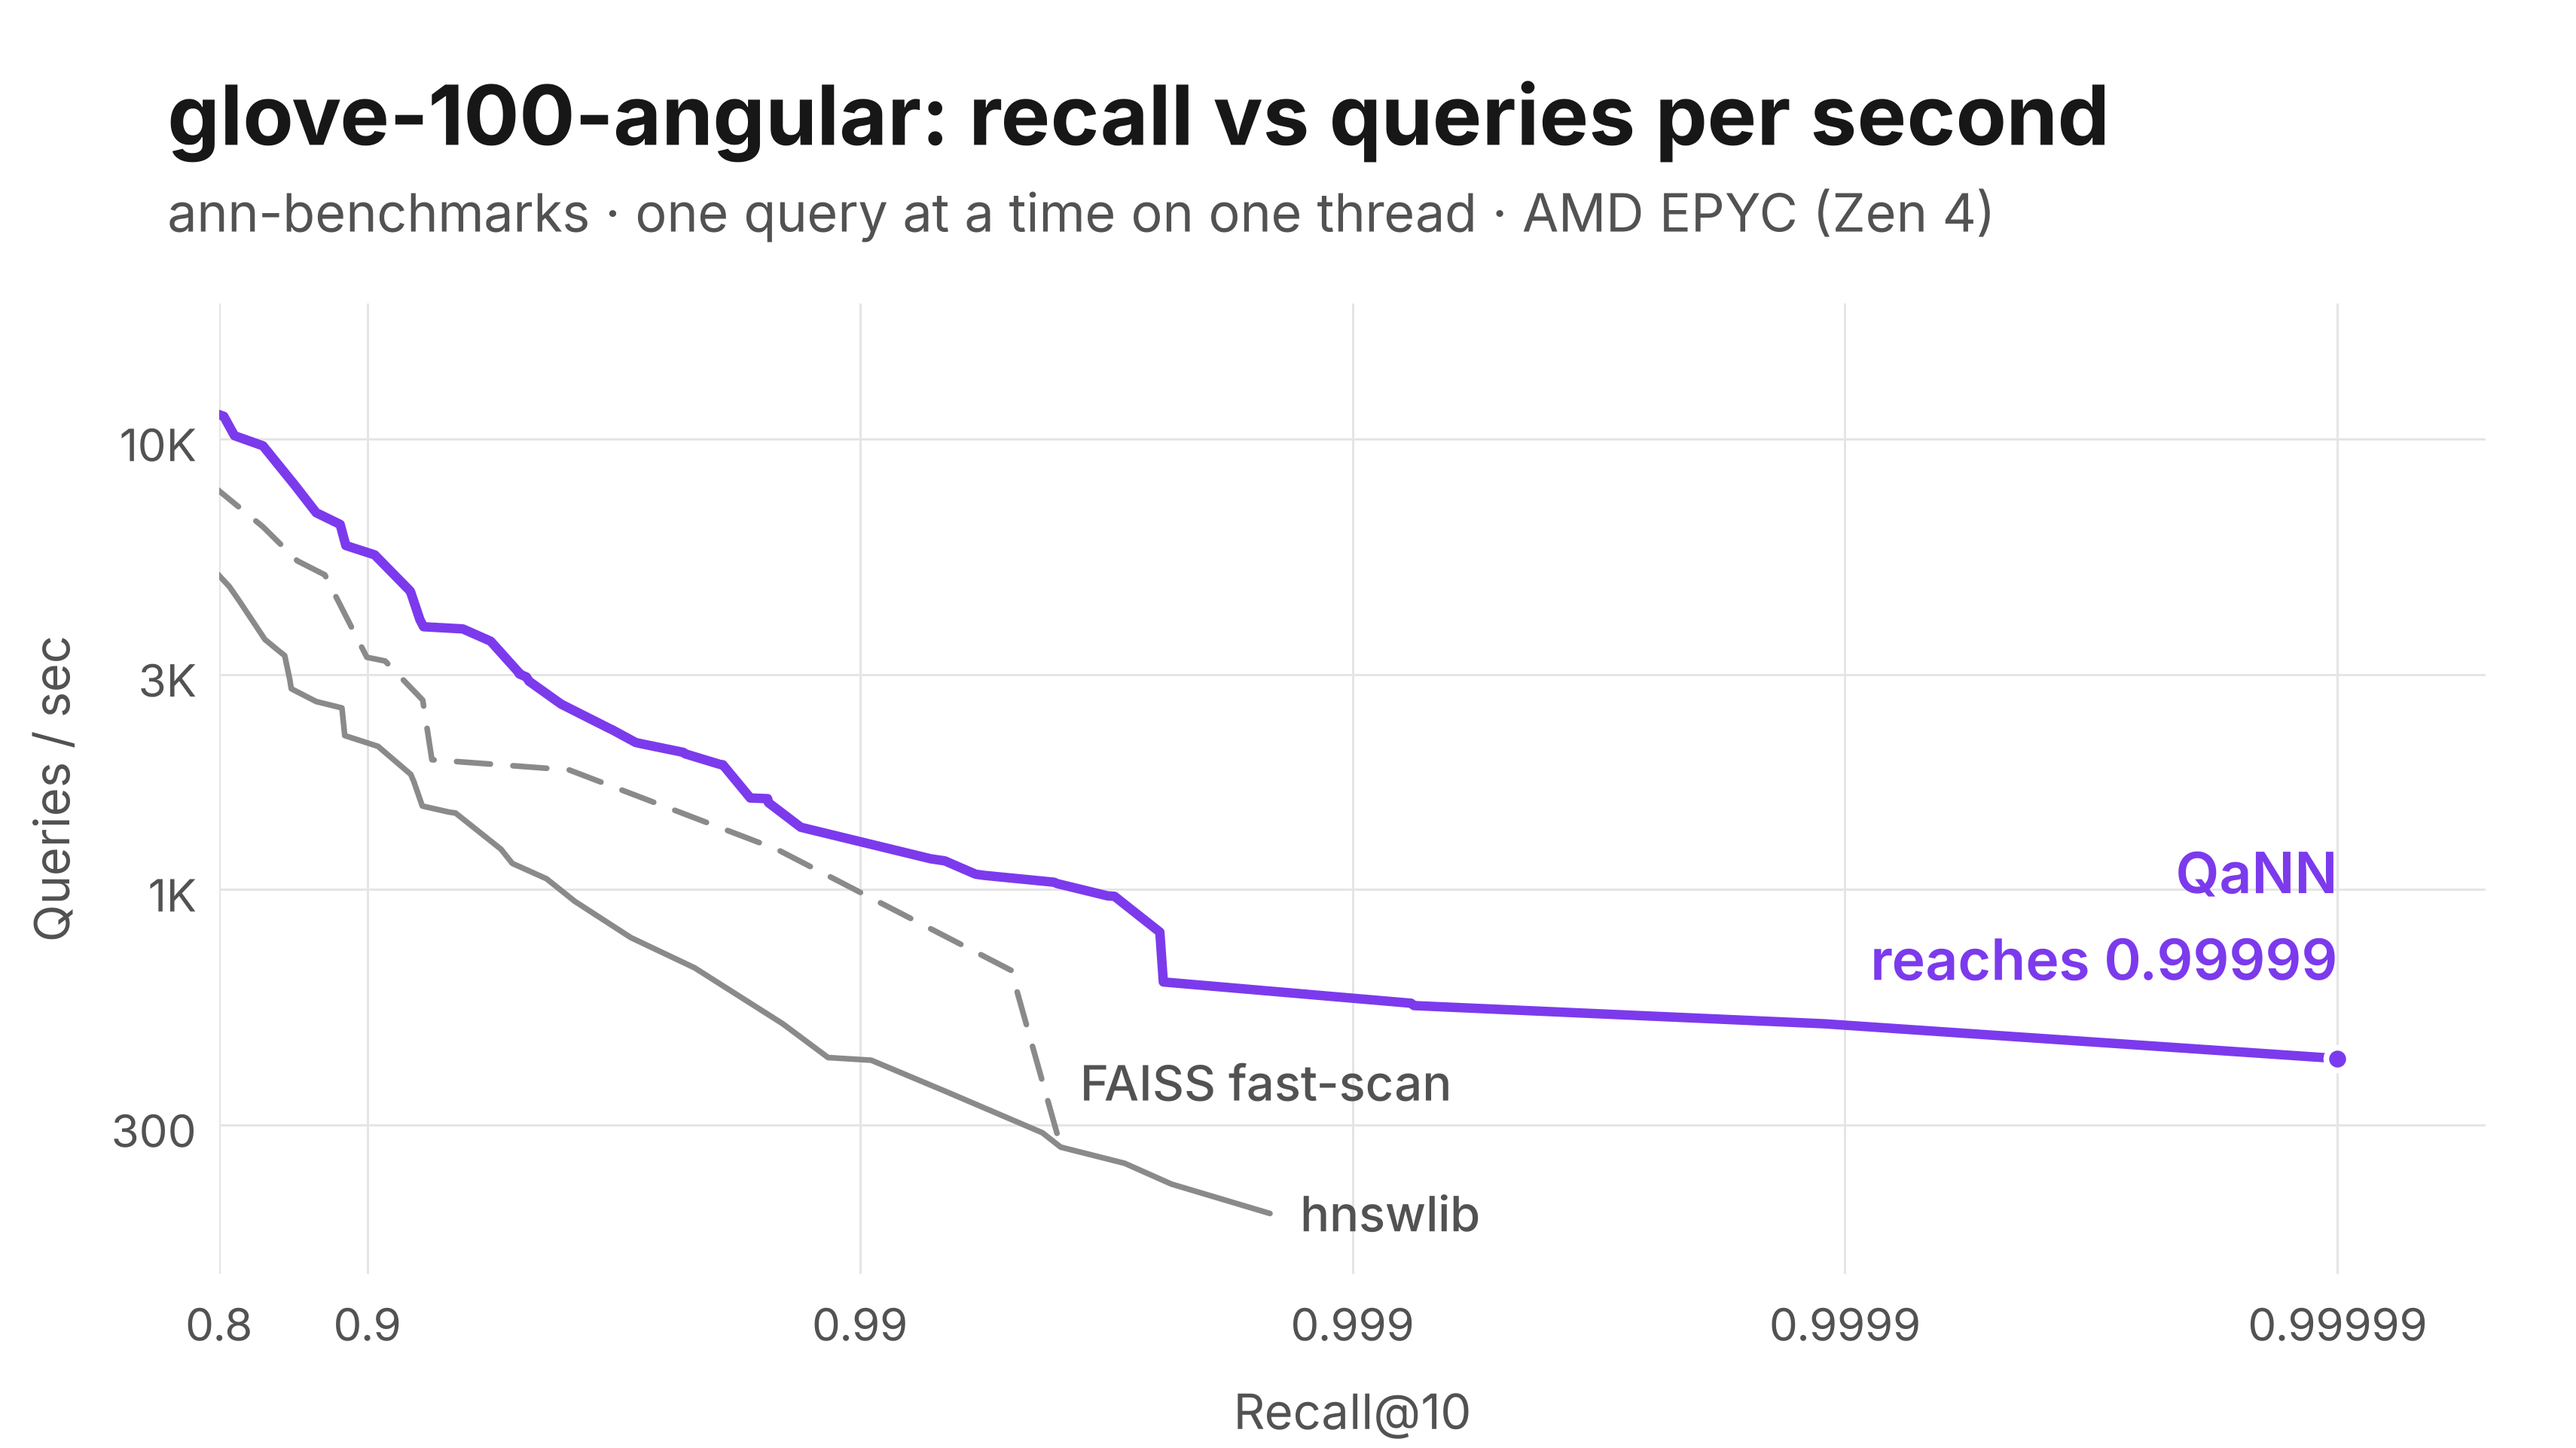
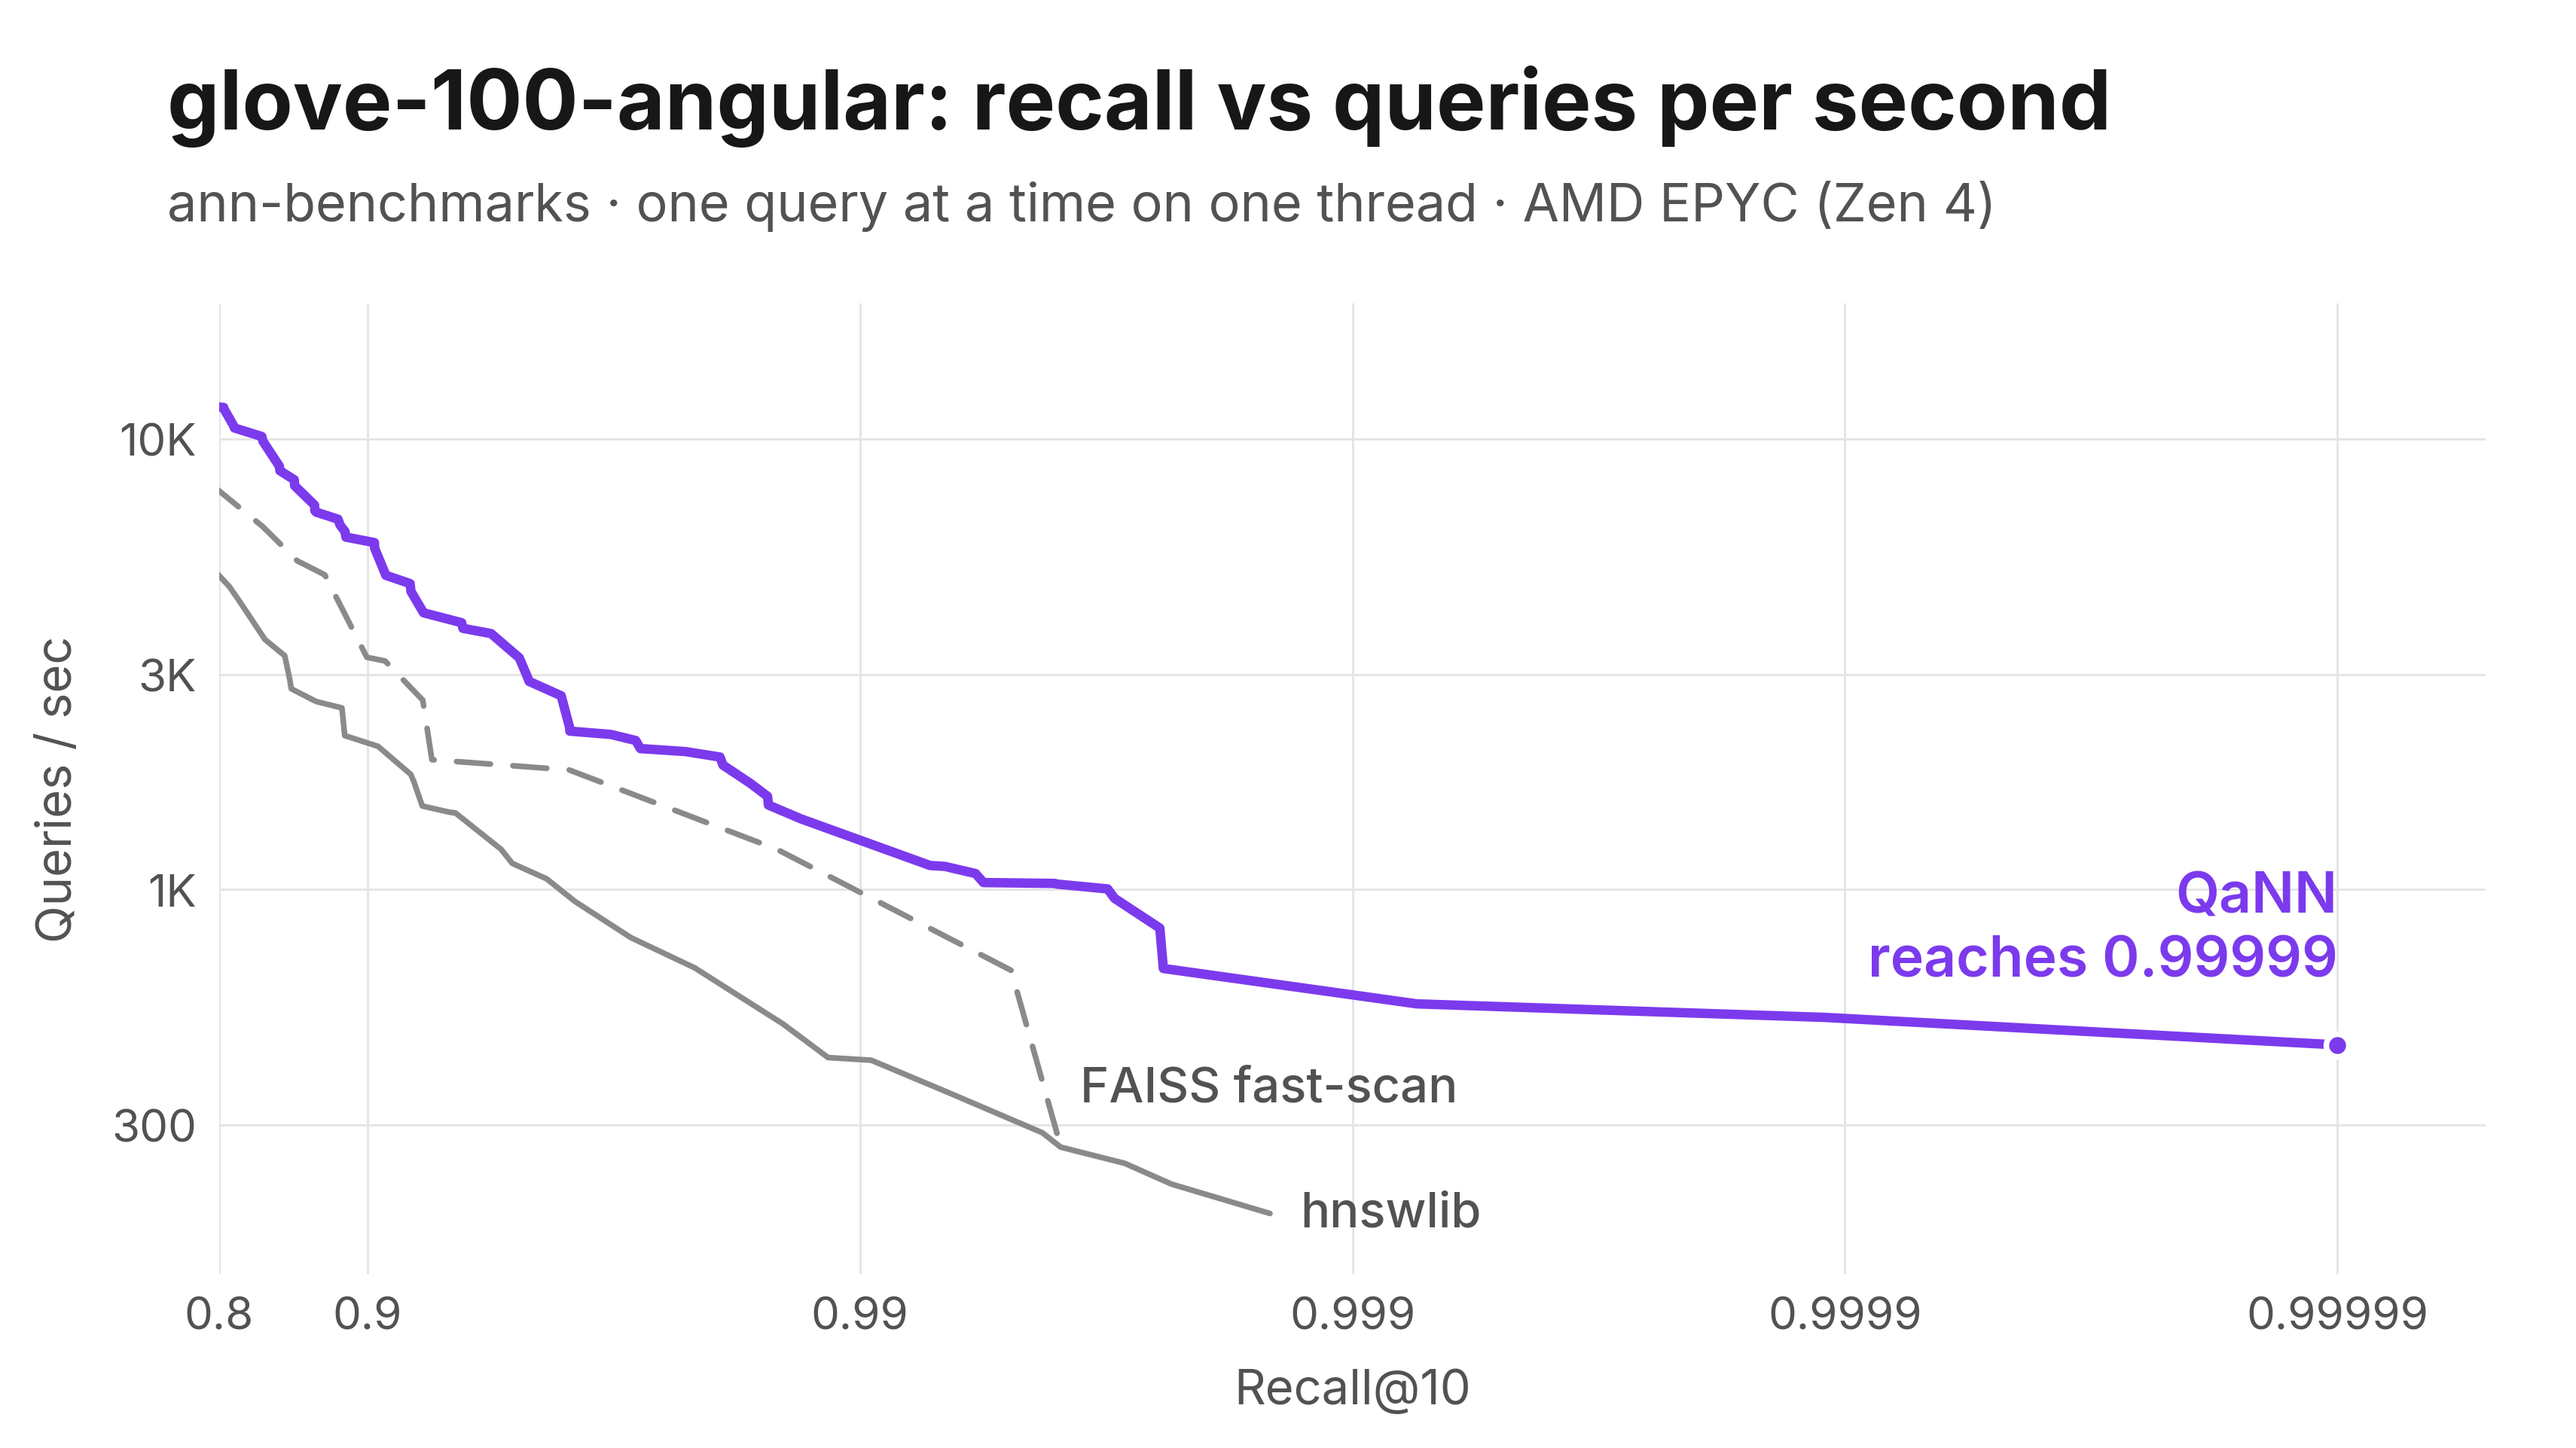
README: glove-100 plot from the 0.1.0a27 ann-benchmarks run

diff --git a/README.md b/README.md
@@ -12,7 +12,7 @@ QaNN (**Q**uantized **N**earest **N**eighbors) is a Python library for fast near
 
 ![Recall against queries per second on glove-100-angular for qann, hnswlib and FAISS](https://raw.githubusercontent.com/maxtmiller/qann/main/docs/images/ann-glove-100-angular.png)
 
-GloVe-100 (1.2M word vectors, angular) on [ann-benchmarks](https://github.com/erikbern/ann-benchmarks): recall@10 against queries per second, one query at a time on one thread of an AMD EPYC 9J14 (Zen 4) VM; up and to the right is better. qann `main` before 0.1.0a27, hnswlib 0.8.0, faiss-cpu 1.14.3. Each line is that library's fastest index on this dataset: qann's IVF fast-scan with re-ranking (`qann-ivf-fastscan`), hnswlib's HNSW and FAISS's IVF-PQ fast-scan. qann's own HNSW, left out for readability, ran just ahead of hnswlib. The harness and configs are on the [`external-benchmarks`](https://github.com/maxtmiller/qann/tree/external-benchmarks/benchmarks/external) branch.
+GloVe-100 (1.2M word vectors, angular) on [ann-benchmarks](https://github.com/erikbern/ann-benchmarks): recall@10 against queries per second, one query at a time on one thread of an AMD EPYC 9J14 (Zen 4) VM; up and to the right is better. qann 0.1.0a27, hnswlib 0.8.0, faiss-cpu 1.14.3. Each line is that library's fastest index on this dataset: qann's IVF fast-scan with re-ranking (`qann-ivf-fastscan`), hnswlib's HNSW and FAISS's IVF-PQ fast-scan. qann's own HNSW, left out for readability, ran just ahead of hnswlib. The harness and configs are on the [`external-benchmarks`](https://github.com/maxtmiller/qann/tree/external-benchmarks/benchmarks/external) branch.
 
 ## Install
 
